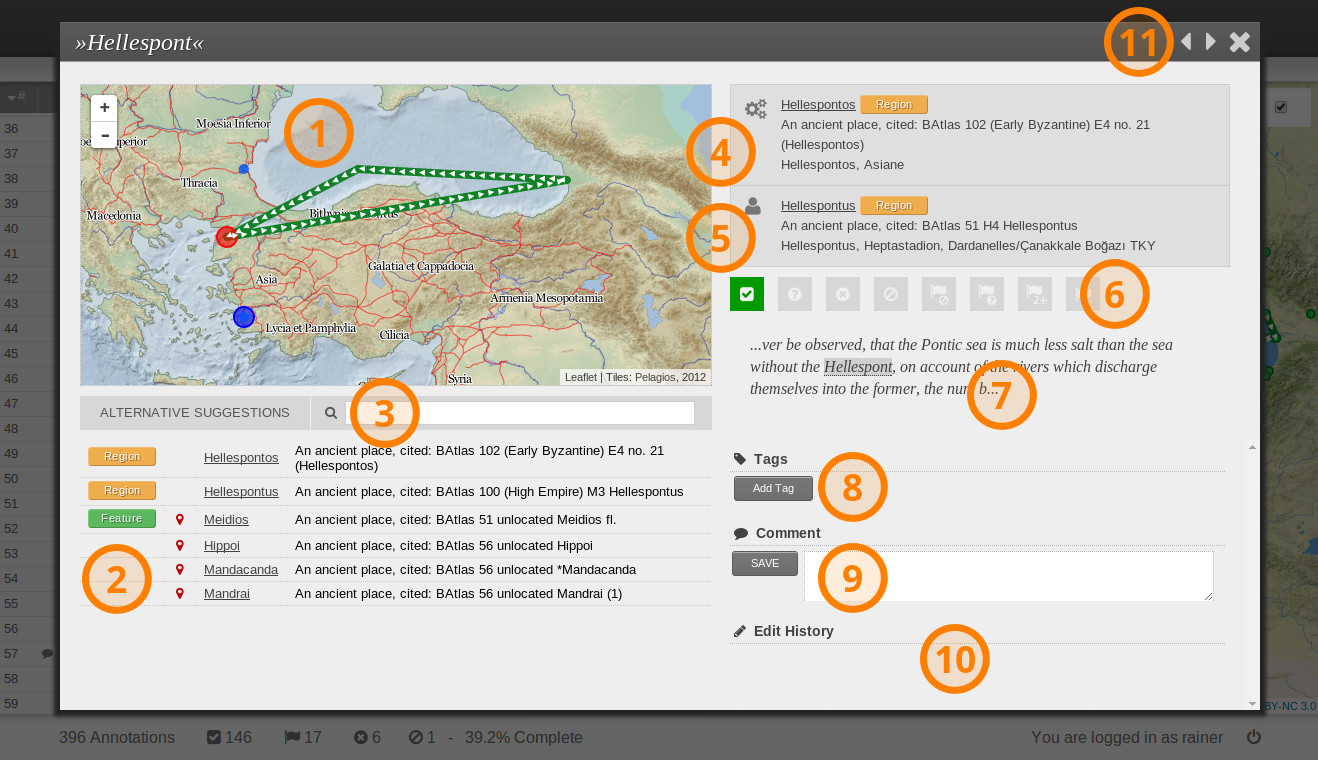
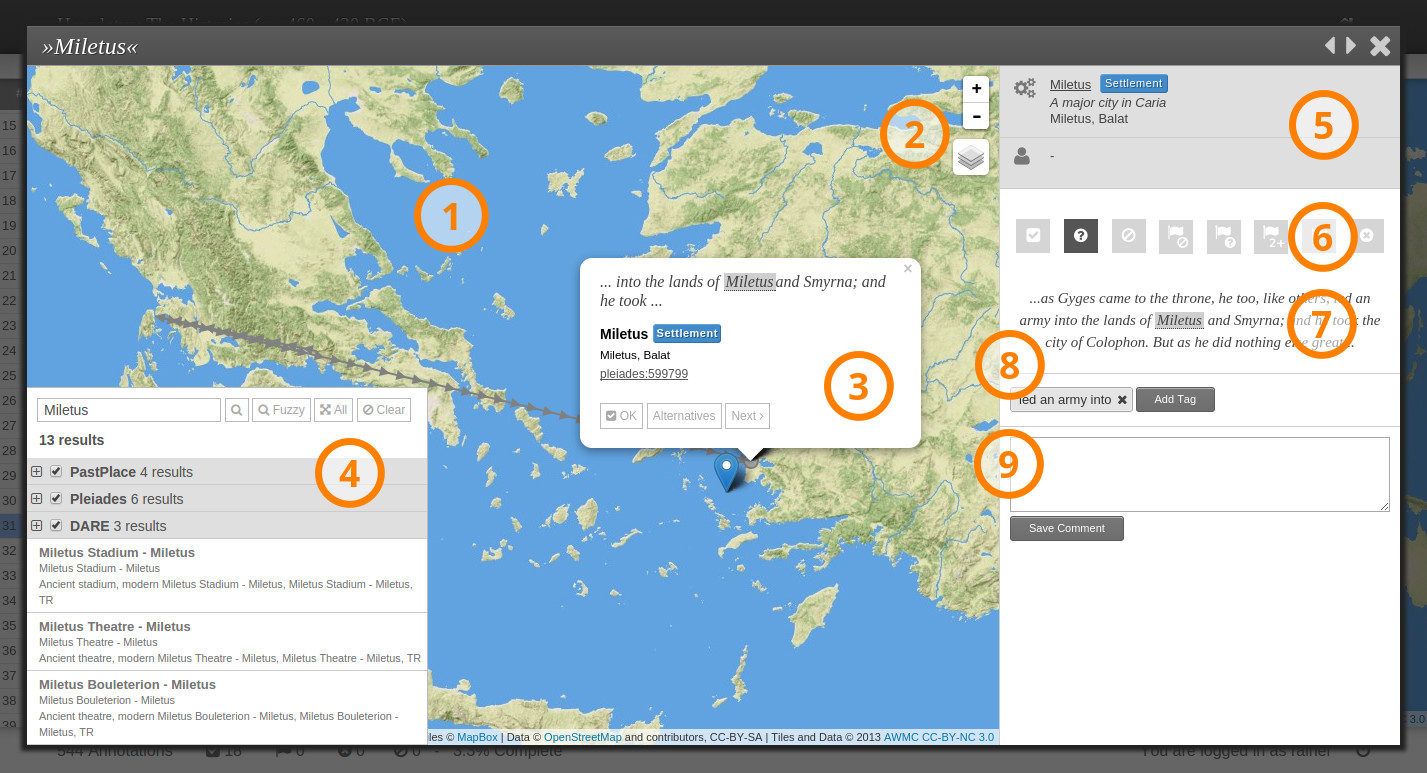
Updated beginner's tutorial according to new geo-res UI

diff --git a/public/documentation/index.html b/public/documentation/index.html
@@ -209,15 +209,39 @@
       
       <p>The main component of the details window is a <strong>map</strong> <span class="image-marker">1</span>. If the place reference is already
         geo-resolved, the map shows the corresponding place (again connected to it's nearest neighbour places in the text through a sequence line).
-        Underneath the map, Recogito suggests other potential places that may match the place name <span class="image-marker">2</span>. You can
-        re-assign the place reference to one of the alternative suggestions by clicking on it. If you find that none of the suggestions is suitable, you
-        can try to find a match using the <strong>text search field</strong> <span class="image-marker">3</span>. Note that after a re-assignement,
-        the verification status of the place reference will be automatically set to <em>VERIFIED</em>, and the Recogito will proceed to the next place 
-        reference in the list (more on verification status below). The top-right of the details window shows information about the automatic link 
-        that has initially been assigned by Recogito, if any <span class="image-marker">4</span>, as well as the latest manual assignment 
-        <span class="image-marker">5</span>. Below that, you will find the <strong>verification status panel</strong> 
-        <span class="image-marker">6</span> and a <strong>preview snippet</strong> showing how the place name appears in its original 
-        context <span class="image-marker">7</span>.</p>
+        In this case, there will also be a popup <span class="image-marker">2</span> that shows a small text preview snippet, more information about 
+        the current gazetteer mapping, and some &quote;shortcut&quot; buttons to quickly <span class="icon">&#xf14a;</span> confirm the current 
+        mapping (unless it's already confirmed) or skip to the next toponym in the list. (You can also skip to the next/previous place reference
+        using the <span class="icon">&#xf0d9; &#xf0da;<span class="icon"> icons in the header, or the left and right arrow keys.)</p>
+        
+      <p>In some cases, Recogito may pop up a list of suggestions based on the mappings that you, or other users, have assigned to identical 
+        place names earlier: in this case, you can either quickly confirm, or just close the suggestion window by clicking the 
+        <span class="icon">&#xf00d;</span> icon in the window header bar.</p>
+        
+      <div class="figure"><img src="images/georesolution-autosuggestion.png"></div>
+        
+      <p>Underneath the map, there is a search box <span class="image-marker">3</span>. You can use it to search the Recogito place directory 
+        for exact or fuzzy matches (fuzzy matches means that the search will also return places which names differ slightly from your search term).
+        There are also buttons to <span class="icon">&#xf0b2;</span> zoom the map to show all search results, and to <span class="icon">&#xf05e;</span>
+        clear any existing search results on the map.</p>
+        
+      <p>You will see that the search box is already pre-populated with the current place name, and that Recogito has already fetched a list of possible
+        alternative matches. The list is grouped by gazetteers. Click the <span class="icon">&#xf196;</span> unfold icon to see all results from a
+        particular gazetteer, or the checkbox to hide a particular gazetteer from the map view. You can re-assign the gazetteer mapping for this
+        place reference clicking on one of the search results in the list, or by clicking on the map marker and confirming the gazetteer mapping in the
+        map popup (Fig. 7).</p>
+        
+      <div class="figure">
+        <img src="images/details-map-popup.png"> 
+        <p>Fig.7 Search result: map popup.</p>
+      </div>
+        
+      <p>Note that after a re-assigning the mapping, the verification status of the place reference will be automatically set to 
+        <em>VERIFIED</em>, and Recogito will proceed to the next place reference in the list (more on verification status below). 
+        The top-right of the details window shows information about the automatic link that has initially been assigned by Recogito, 
+        if any, as well as the latest manual assignment <span class="image-marker">4</span>. Below that, you will find the 
+        <strong>verification status panel</strong> <span class="image-marker">5</span> and a <strong>preview
+        snippet</strong> showing how the place name appears in its original context <span class="image-marker">6</span>.</p>
         
       <p>The <strong>verification status</strong> is a simple measure to keep track of the overall geo-resolution progress in a document, as well
         as a means to flag problematic or otherwise unresolvable cases. The meaning of the different status values is a follows, and you should
@@ -270,9 +294,9 @@
         </tr>
       </table>
       
-      <p>In addition to the verification status, you can add extra informaion to a place reference in the form of 
-        <strong>tags</strong> <span class="image-marker">8</span> and <strong>comments</strong> 
-        <span class="image-marker">9</span>. We normally use tags to identify the role of the place 
+      <p>In addition to the verification status, you can add extra information to a place reference in the form of 
+        <strong>tags</strong> <span class="image-marker">7</span> and <strong>comments</strong> 
+        <span class="image-marker">8</span>. We normally use tags to identify the role of the place 
         <strong>within</strong> the context of the document</strong>. E.g. <em>change</em> or <em>halt</em> could be good tags to 
         denote the role of a place in a particular itinerary. Whereas we discourage the use of tags to express general properties 
         of the place itself: e.g. we would discourage tags like <em>continent</em> or <em>mountain</em> because
@@ -281,10 +305,6 @@
       <p>Comments, obviously, allow you to attach any kind of note or remark to the place reference. For easier findability,
         every place reference that has a comment will be marked with a <span class="icon">&#xf075;</span> icon in the 
         toponym table.</p>
-        
-      <p>You can <strong>close the details window</strong> with the X icon in the header bar, or <strong>skip to the previous and
-        next</strong> place references with the arrow icons <span class="image-marker">11</span>. Note that when you assign a new 
-        geo-resolution to a place, Recogito will automatically step to the next place in the list.</p>
         
       <a class="internal-anchor" name="document-stats"></a>
       <h3><span class="icon">&#xf080;</span> Document Stats</h3>
